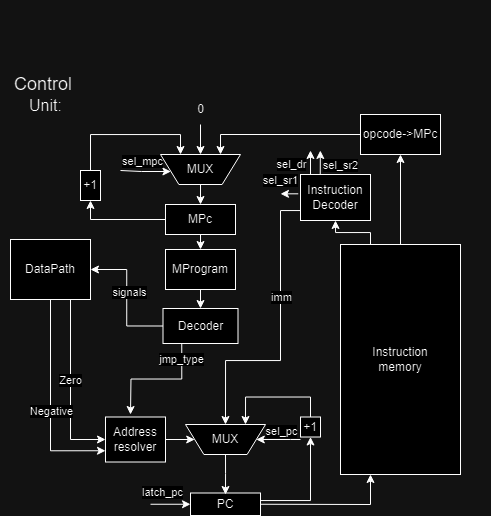
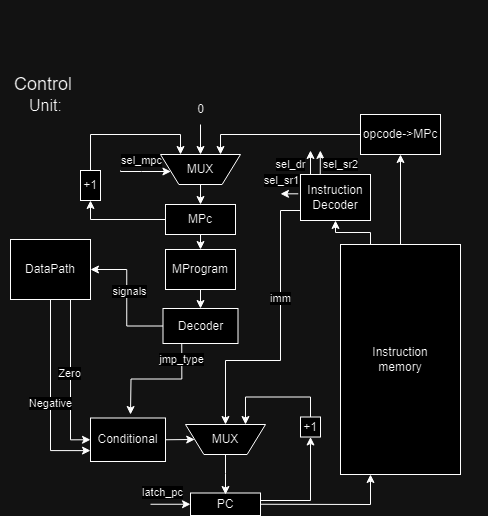
feat: yeat another readme update

diff --git a/README.md b/README.md
@@ -33,7 +33,6 @@ asm | risc | harv | mc -> hw | tick -> instr | struct | stream | port | pstr | p
 5. [Транслятор](#транслятор)
 6. [Модель процессора](#модель-процессора)
 7. [Тестирование](#тестирование)
-8. [Общая статистика](#общая-статистика)
 
 ## Язык программирования
 
@@ -162,14 +161,30 @@ s
 Пример машинного слова:
 ```json
 {
-  "opcode": "LIT",
-  "operand": 2
+  "data_mem": {
+  	"0": 23,
+  	"1": 23
+  },
+  "start": 0
+  "code_mem": {
+          "0": {
+              "opcode": "command",
+              "args": [
+                  "arg1",
+                  "arg2",
+				  "arg3"
+              ]
+          }
+	}
 }
 ```
 
 Где:
-* `opcode` – строка с кодом операции
-* `operand` – аргумент команды (обязателен для инструкций с операндом)
+* `data_mem` – память данных
+* `start` -  точка входа в памяти инструкций
+* `code_mem` – память инструкций
+* `opcode` - некоторая инструкция
+* `args` - аргументы инструкции
 
 Система команд реализована в модуле [isa](/isa.py).
 
@@ -186,8 +201,11 @@ s
 Формат запуска: `./vm.py <machine_code_file> <input_file>`
 ### DataPath
 ![](doc/scheme_datapath.png)
-
 Реализован в классе `DataPath`.
+- `Registers (r0-r15)` - регистры общего назначения
+- `IO Controller` - контроллер внешних устройств
+- `IO Unit` - внешнее устройство
+
 Сигналы:
 - `WriteMem` - записать значение в память
 - `ReadMem` - прочитать значение из памяти
@@ -211,15 +229,20 @@ s
 -   `PCJumpTypeJE` - выполнить переход по адресу, если результат предыдущей операции ALU равен нулю (JE - Jump if Equal)
 -    `PCJumpTypeJG` - выполнить переход по адресу, если результат предыдущей операции ALU больше нуля (JG - Jump if Greater)
 -    `PCJumpTypeJump` - выполнить безусловный переход по адресу (Jump)
-- `PCJumpTypeNext` - перейти к следующей инструкции (Next PC)
+-    `PCJumpTypeNext` - перейти к следующей инструкции (Next PC)
 
   Флаги:
 - `zero` - отражает наличие нулевого значения в аккумуляторе.
 - `positive` - отражает наличие положительного значения в аккумуляторе
 ### ControlUnit
 ![](doc/scheme_controlunit.png)
-
 Реализован в классе `ControlUnit`
+
+- `Program Counter `- счетчик команд
+- `Conditional` - логическая схема, для управления ветвлением
+- `Decoder` - интерпретатор микрокоманд
+- `Micro Program Counter (MPC)` - счетчик микрокоманд;
+- `Instruction Decoder` - интерпретатор машинных инструкций
 
 Сигналы:
 -    `MicroProgramCounterZero` - сбросить счетчик микропрограммы в ноль.
@@ -227,4 +250,5 @@ s
 -    `MicroProgramCounterNext` -  перейти к следующему состоянию микропрограммы.
 -    `LatchPC` - защелкнуть текущее значение программного счетчика (PC).
 -    `LatchMPCounter` - защелкнуть текущее значение счетчика микропрограммы (MPC).
+
 ## Тестирование
